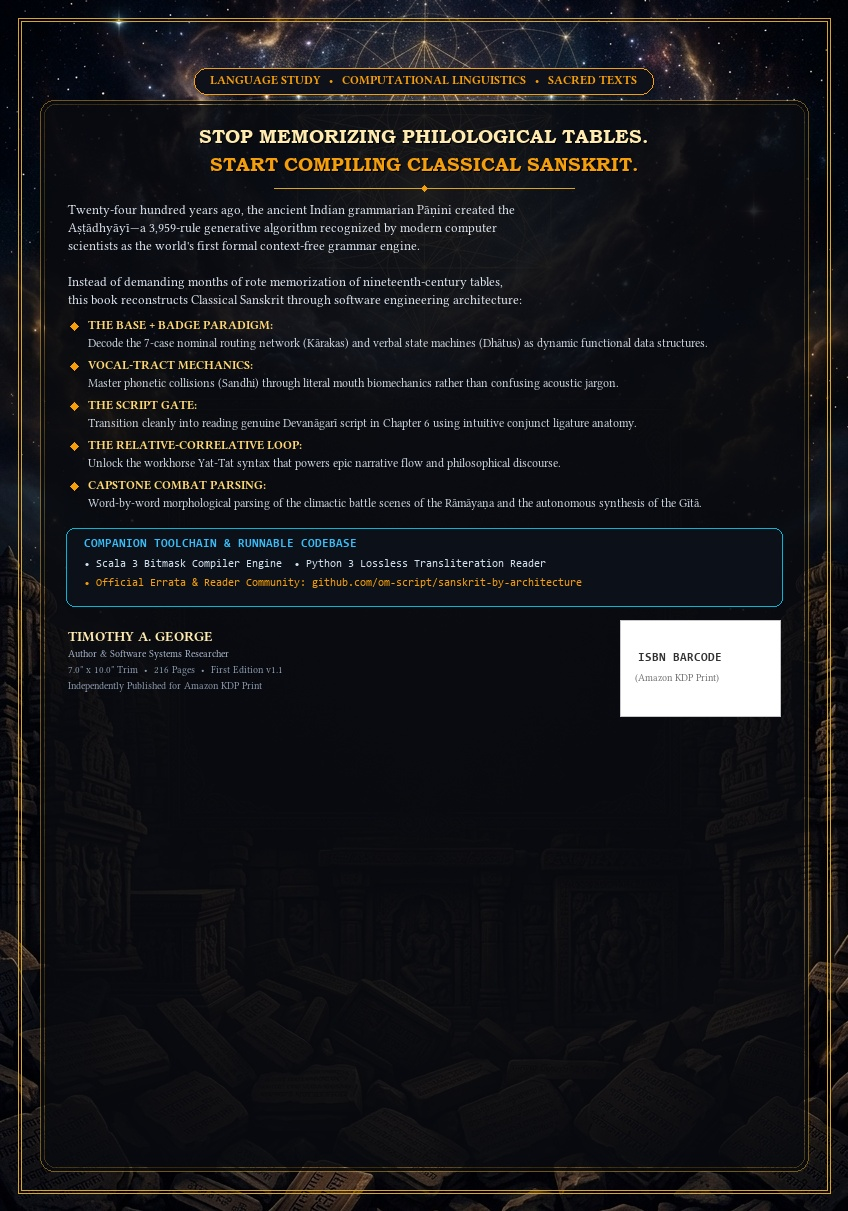
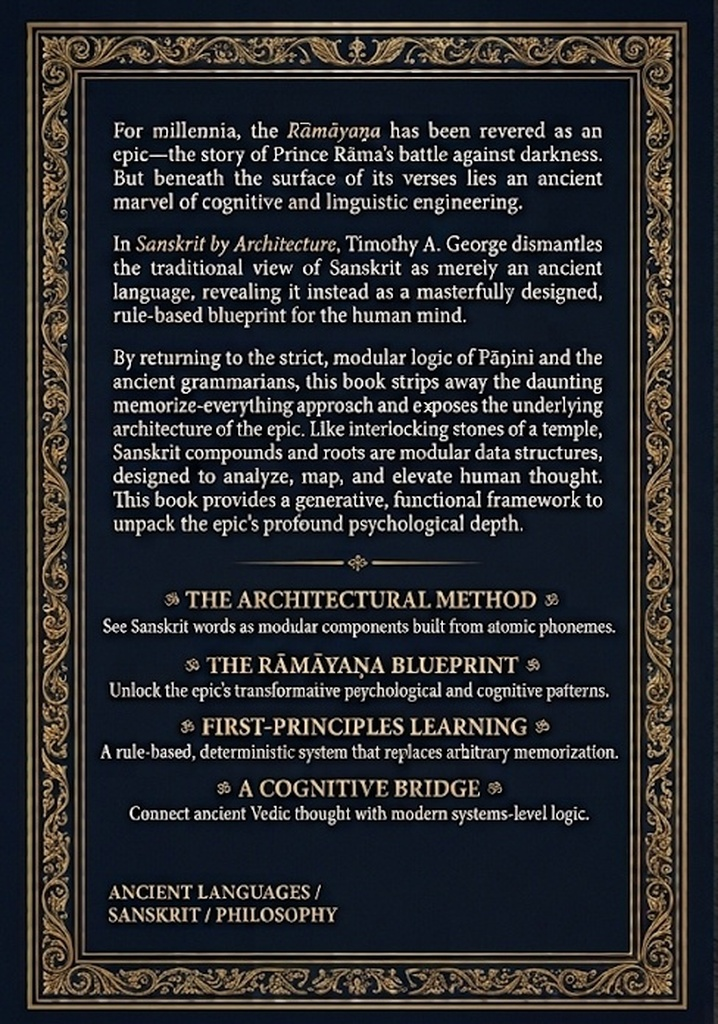
Update companion webpage and docs with 4-tab interactive cover suite, pristine spine preview, and verified typo corrections

diff --git a/docs/index.html b/docs/index.html
@@ -348,6 +348,36 @@
       box-shadow: 0 4px 15px rgba(0, 0, 0, 0.5);
     }
 
+    .spine-card-glow {
+      position: relative;
+      border-radius: var(--radius-md);
+      padding: 12px;
+      background: linear-gradient(135deg, rgba(245, 158, 11, 0.45), rgba(139, 92, 246, 0.35), rgba(6, 182, 212, 0.25));
+      box-shadow: 0 20px 50px rgba(0, 0, 0, 0.75), 0 0 40px rgba(245, 158, 11, 0.25);
+      transition: transform 0.4s cubic-bezier(0.16, 1, 0.3, 1), box-shadow 0.4s ease;
+      max-width: 960px;
+      width: 100%;
+      overflow-x: auto;
+      display: flex;
+      justify-content: center;
+      align-items: center;
+    }
+
+    .spine-card-glow:hover {
+      transform: translateY(-4px) scale(1.01);
+      box-shadow: 0 30px 65px rgba(0, 0, 0, 0.85), 0 0 50px rgba(245, 158, 11, 0.35);
+    }
+
+    .spine-img {
+      display: block;
+      width: 100%;
+      max-width: 920px;
+      min-width: 600px;
+      height: auto;
+      border-radius: var(--radius-sm);
+      box-shadow: 0 4px 15px rgba(0, 0, 0, 0.5);
+    }
+
     .cover-caption {
       margin-top: 14px;
       font-size: 0.82rem;
@@ -608,6 +638,12 @@
       background: rgba(16, 185, 129, 0.12);
       border: 1px solid rgba(16, 185, 129, 0.3);
       color: var(--accent-emerald);
+    }
+
+    .badge-typography {
+      background: rgba(245, 158, 11, 0.12);
+      border: 1px solid rgba(245, 158, 11, 0.3);
+      color: var(--accent-saffron);
     }
 
     .badge-status {
@@ -924,10 +960,16 @@
         <!-- Interactive Mode Tabs -->
         <div class="cover-tabs">
           <button class="cover-tab-btn active" onclick="switchCoverView('front')">
-            <span>📖</span> Front Cover (3D Edition)
+            <span>📖</span> Front Cover
+          </button>
+          <button class="cover-tab-btn" onclick="switchCoverView('spine')">
+            <span>🏛</span> Spine Strip (0.486")
+          </button>
+          <button class="cover-tab-btn" onclick="switchCoverView('back')">
+            <span>📑</span> Back Cover
           </button>
           <button class="cover-tab-btn" onclick="switchCoverView('wrap')">
-            <span>📜</span> Full Wrap Jacket (Print Spread)
+            <span>📜</span> Full Wrap Spread
           </button>
         </div>
 
@@ -937,7 +979,27 @@
             <img src="cover_final.jpg" alt="Sanskrit by Architecture Front Cover" class="cover-img">
           </div>
           <div class="cover-caption">
-            Cosmic Kodaṇḍa-Rāma • Kaṭha Upaniṣad Sandhi Inscription • Solar Kirīṭa-mukuṭa
+            Cosmic Kodaṇḍa-Rāma • Kaṭha Upaniṣad Sandhi Inscription • Author along Bottom Edge • Intact Subtitles
+          </div>
+        </div>
+
+        <!-- Spine View -->
+        <div id="cover-view-spine" class="cover-view-panel">
+          <div class="spine-card-glow">
+            <img src="spine_full_preview.png" alt="Sanskrit by Architecture Complete Spine Strip" class="spine-img">
+          </div>
+          <div class="cover-caption">
+            Regenerated Pristine Spine Strip (0.486") • Zero Cutoff: Full "SANSKRIT BY ARCHITECTURE" • Sacred ॐ • IAST Diacritics • Author
+          </div>
+        </div>
+
+        <!-- Back Cover View -->
+        <div id="cover-view-back" class="cover-view-panel">
+          <div class="cover-card-glow">
+            <img src="back_cover_final.jpg" alt="Sanskrit by Architecture Back Cover" class="cover-img">
+          </div>
+          <div class="cover-caption">
+            Verified Typo Corrections: "Rāmāyaṇa" Diacritics • Roman Serif "exposes" • Solid Roman "arbitrary"
           </div>
         </div>
 
@@ -947,7 +1009,7 @@
             <img src="Ramayana_Full_Wrap.jpg" alt="Sanskrit by Architecture Full Wrap Print Jacket" class="wrap-img">
           </div>
           <div class="cover-caption">
-            Amazon KDP 7" × 10" Full Wrap Spread • Back Cover + Spine (0.486") + Front Cover • Gold Baroque Filigree Frame
+            Amazon KDP 7" × 10" Full Wrap Spread • Back Cover + Restored Spine (0.486") + Front Cover • 300 DPI Print Calibrated
           </div>
         </div>
 
@@ -971,8 +1033,8 @@
       </div>
       <div class="stat-card">
         <div class="stat-label">Tracked Adjustments</div>
-        <div class="stat-value" style="color: var(--accent-saffron);">3 Items</div>
-        <div class="stat-desc">Ch 7 Alias Table, Ch 11 Halftime, Repo Links</div>
+        <div class="stat-value" style="color: var(--accent-saffron);">4 Items</div>
+        <div class="stat-desc">Ch 7 Alias Table, Ch 11 Halftime, Repo Links, Cover Suite</div>
       </div>
       <div class="stat-card">
         <div class="stat-label">Code Engines</div>
@@ -1010,6 +1072,7 @@
           <button class="filter-btn" onclick="setFilter('clarification', this)">Clarification</button>
           <button class="filter-btn" onclick="setFilter('pacing', this)">Pacing & Structure</button>
           <button class="filter-btn" onclick="setFilter('infrastructure', this)">Infrastructure</button>
+          <button class="filter-btn" onclick="setFilter('typography', this)">Typography & Cover</button>
         </div>
       </div>
 
@@ -1069,6 +1132,21 @@
                 Injected official GitHub URL (<span class="code-snippet">github.com/.../sanskrit-by-architecture</span>) and 1-click git clone command into copyright page, Intro, and Appendix A.
               </td>
               <td><span class="badge-tag badge-infrastructure">Infrastructure</span></td>
+              <td><span class="badge-status">v1.1 Master</span></td>
+            </tr>
+
+            <tr data-category="typography">
+              <td style="font-family: var(--font-mono); font-weight: 600; color: var(--accent-saffron);">#004</td>
+              <td><strong>Cover & Spine</strong><br><span style="color: var(--text-dim); font-size: 0.78rem;">Print Wrap & Spine</span></td>
+              <td>
+                <em>Spine Title Cutoff & Back Cover Typos</em><br>
+                <span style="font-size: 0.8rem; color: var(--text-muted);">Spine title sliced off at hinge (<code>SANSKRIT BY ARCHIT</code>). Back cover had <code>Rämāyana</code> umlauts, <code>esposes</code>, and <code>arhitrary</code>.</span>
+              </td>
+              <td>
+                <strong>Pristine Spine Regeneration & Typo Correction</strong><br>
+                Full spine strip regenerated with complete title <strong>SANSKRIT BY ARCHITECTURE</strong> (zero cutoff), sacred ॐ, IAST subtitle, and author. Front cover author realigned to bottom edge with gold rules. Back cover typos corrected to <span class="code-snippet">Rāmāyaṇa</span>, <span class="code-snippet">exposes</span>, and <span class="code-snippet">arbitrary</span>.
+              </td>
+              <td><span class="badge-tag badge-typography">Typography</span></td>
               <td><span class="badge-status">v1.1 Master</span></td>
             </tr>
           </tbody>
@@ -1306,13 +1384,17 @@
       buttons.forEach(b => b.classList.remove('active'));
       panels.forEach(p => p.classList.remove('active'));
 
-      if (mode === 'front') {
-        buttons[0].classList.add('active');
-        document.getElementById('cover-view-front').classList.add('active');
-      } else {
-        buttons[1].classList.add('active');
-        document.getElementById('cover-view-wrap').classList.add('active');
-      }
+      const map = {
+        'front': { btnIdx: 0, id: 'cover-view-front' },
+        'spine': { btnIdx: 1, id: 'cover-view-spine' },
+        'back':  { btnIdx: 2, id: 'cover-view-back' },
+        'wrap':  { btnIdx: 3, id: 'cover-view-wrap' }
+      };
+
+      const target = map[mode] || map['front'];
+      if (buttons[target.btnIdx]) buttons[target.btnIdx].classList.add('active');
+      const panel = document.getElementById(target.id);
+      if (panel) panel.classList.add('active');
     }
   </script>
 </body>

diff --git a/generate_master_wrap.py b/generate_master_wrap.py
@@ -113,13 +113,17 @@ wrap_draw.point([(289, 287), (290, 287), (291, 287), (292, 287)], fill=gold_p3)
 wrap_draw.point([(288, 288), (289, 288), (292, 288), (293, 288)], fill=gold_p3)
 
 # C. Back cover: Bullet 3 'arhitrary' -> 'arbitrary'
-# Close bowl of 'h' at y=530..531, x=324..328 to form solid Roman 'b'
-gold_b3 = (230, 225, 210)
-for x in range(324, 329):
-    master_wrap.putpixel((x, 531), gold_b3)
-    master_wrap.putpixel((x, 530), gold_b3)
-for y in range(526, 531):
-    master_wrap.putpixel((328, y), gold_b3)
+# Close bowl of 'h' at x=315..318, y=530..531 to form crisp Roman 'b'
+gold_b3 = (220, 215, 200)
+master_wrap.putpixel((315, 530), (200, 195, 180))
+master_wrap.putpixel((316, 530), gold_b3)
+master_wrap.putpixel((317, 530), gold_b3)
+master_wrap.putpixel((318, 530), gold_b3)
+
+master_wrap.putpixel((315, 531), (170, 165, 150))
+master_wrap.putpixel((316, 531), gold_b3)
+master_wrap.putpixel((317, 531), gold_b3)
+master_wrap.putpixel((318, 531), (200, 195, 180))
 
 # D. Paste the clean Front Cover onto the wrap
 master_wrap.paste(fc_cleaned, (525, 0))
